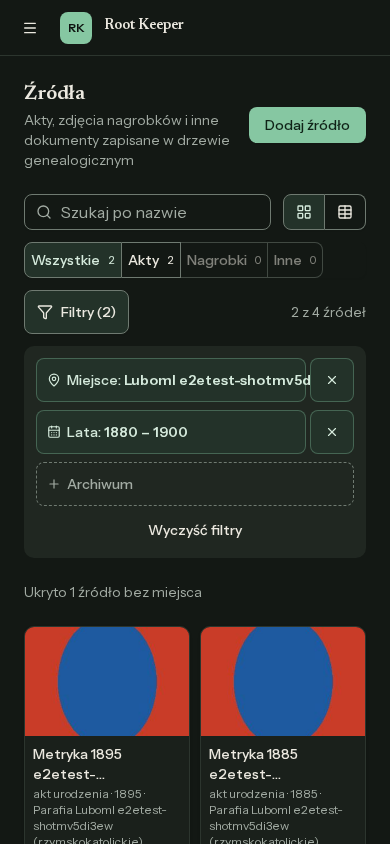
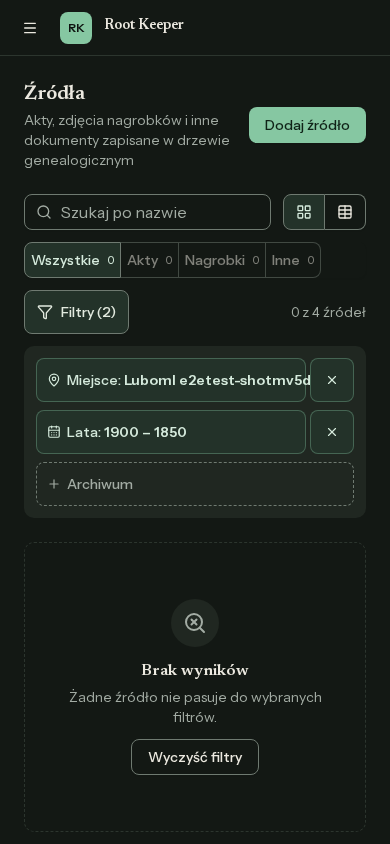
fix(sources-filter-bar): poprawki po przeglądzie implementacji (F1–F10)
- Home/End w polu wyszukiwania zostają w kursorze; fokus przy otwarciu na wyszukiwarce lub wybranej pozycji
- Popover Miejsce/Archiwum bez aria-haspopup (popup to dialog), bez zdublowanej etykiety
- Spinner w SearchField aria-hidden: jeden region role=status (licznik wyników)
- ✕ i „Wyczyść lata” zatwierdzają od razu przez visit
- Eksporty typów SourcesCounts/SourcesResult usunięte; E2E: escapowany regex
- Test: „1 z 2 źródeł”; zrzut ciemny błędu zakresu, zrzuty odświeżone
- reviews/impl-review.md: sekcja triage

diff --git a/resources/js/components/sources/sources-filters.tsx b/resources/js/components/sources/sources-filters.tsx
@@ -58,6 +58,14 @@ function moveOptionFocus(event: KeyboardEvent<HTMLDivElement>) {
         return;
     }
 
+    // Home and End belong to the caret while the search field has focus; arrows still enter the list.
+    const onOption =
+        (event.target as HTMLElement).getAttribute('role') === 'option';
+
+    if (!onOption && (event.key === 'Home' || event.key === 'End')) {
+        return;
+    }
+
     const options = Array.from(
         event.currentTarget.querySelectorAll<HTMLElement>(
             '[role="option"]:not([aria-disabled="true"])',
@@ -83,6 +91,19 @@ function moveOptionFocus(event: KeyboardEvent<HTMLDivElement>) {
 
     event.preventDefault();
     options[next].focus();
+}
+
+/** On open, a list focuses its search field, or else the selected option (plan: Critical Implementation Details). */
+function focusListOnOpen(event: Event) {
+    const content = event.currentTarget as HTMLElement;
+    const target =
+        content.querySelector<HTMLElement>('input[type="search"]') ??
+        content.querySelector<HTMLElement>('[aria-selected="true"]');
+
+    if (target) {
+        event.preventDefault();
+        target.focus();
+    }
 }
 
 /** The body of the Miejsce and Archiwum popovers: a search field when the list is long, then the options. */
@@ -218,7 +239,6 @@ function FilterPill({
     name,
     value,
     activeIcon: ActiveIcon,
-    ariaHasPopup,
     removeLabel,
     onClear,
     disabledReason,
@@ -227,7 +247,6 @@ function FilterPill({
     name: string;
     value: string | null;
     activeIcon: LucideIcon;
-    ariaHasPopup: 'listbox' | 'dialog';
     removeLabel: string;
     onClear: () => void;
     disabledReason?: string;
@@ -274,11 +293,7 @@ function FilterPill({
     return (
         <Popover open={isOpen} onOpenChange={setIsOpen}>
             <div className="inline-flex items-center gap-1 max-sm:w-full">
-                <PopoverTrigger
-                    ref={triggerRef}
-                    aria-haspopup={ariaHasPopup}
-                    className={triggerClass}
-                >
+                <PopoverTrigger ref={triggerRef} className={triggerClass}>
                     <Icon className="size-3.5 shrink-0" />
                     {isActive ? (
                         <span>
@@ -336,6 +351,7 @@ export function SourcesFilterBar({
     onArchiveChange,
     onYearFromChange,
     onYearToChange,
+    onYearsClear,
     onClear,
 }: {
     place: string;
@@ -356,6 +372,7 @@ export function SourcesFilterBar({
     onArchiveChange: (archive: string) => void;
     onYearFromChange: (year: string) => void;
     onYearToChange: (year: string) => void;
+    onYearsClear: () => void;
     onClear: () => void;
 }) {
     const [isMobileOpen, setIsMobileOpen] = useState(false);
@@ -429,7 +446,6 @@ export function SourcesFilterBar({
                         name="Miejsce"
                         value={place === '' ? null : placeLabel}
                         activeIcon={MapPin}
-                        ariaHasPopup="listbox"
                         removeLabel={`miejsce ${placeLabel}`}
                         onClear={() => onPlaceChange('')}
                         disabledReason={
@@ -440,9 +456,9 @@ export function SourcesFilterBar({
                     >
                         {(close) => (
                             <PopoverContent
-                                aria-label="Miejsce"
                                 align="start"
                                 className="w-80 rounded-lg p-2"
+                                onOpenAutoFocus={focusListOnOpen}
                             >
                                 <FilterList
                                     name="Miejsce"
@@ -462,12 +478,8 @@ export function SourcesFilterBar({
                         name="Lata"
                         value={hasYears ? yearsLabel : null}
                         activeIcon={CalendarDays}
-                        ariaHasPopup="dialog"
                         removeLabel={`lata ${yearsLabel}`}
-                        onClear={() => {
-                            onYearFromChange('');
-                            onYearToChange('');
-                        }}
+                        onClear={onYearsClear}
                     >
                         {() => (
                             <PopoverContent
@@ -565,10 +577,7 @@ export function SourcesFilterBar({
                                         <Button
                                             variant="ghost"
                                             size="sm"
-                                            onClick={() => {
-                                                onYearFromChange('');
-                                                onYearToChange('');
-                                            }}
+                                            onClick={onYearsClear}
                                         >
                                             Wyczyść lata
                                         </Button>
@@ -582,7 +591,6 @@ export function SourcesFilterBar({
                         name="Archiwum"
                         value={archive === '' ? null : archive}
                         activeIcon={Landmark}
-                        ariaHasPopup="listbox"
                         removeLabel={`archiwum ${archive}`}
                         onClear={() => onArchiveChange('')}
                         disabledReason={
@@ -593,9 +601,9 @@ export function SourcesFilterBar({
                     >
                         {(close) => (
                             <PopoverContent
-                                aria-label="Archiwum"
                                 align="start"
                                 className="w-80 rounded-lg p-2"
+                                onOpenAutoFocus={focusListOnOpen}
                             >
                                 <FilterList
                                     name="Archiwum"

diff --git a/resources/js/pages/sources/index.tsx b/resources/js/pages/sources/index.tsx
@@ -352,7 +352,8 @@ export default function Index({
     // The result count follows the committed query, so it is announced once per pause, not per keystroke.
     const committedCount = filterSources(sources, filters).visible.length;
 
-    // The counts next to the popover options follow the search typed so far, as the list does.
+    // The counts next to the popover options follow the search and years typed so far, as the list does.
+    // They can briefly differ from the committed status line until the debounce commits; that is intended.
     const searchFilters = { ...filters, q: trimmedSearch };
     const placeValues = [
         '',
@@ -519,6 +520,11 @@ export default function Index({
                             onArchiveChange={(archive) => visit({ archive })}
                             onYearFromChange={setYearFrom}
                             onYearToChange={setYearTo}
+                            onYearsClear={() => {
+                                setYearFrom('');
+                                setYearTo('');
+                                visit({ year_from: null, year_to: null });
+                            }}
                             onClear={clearFilters}
                         />
                     </div>

diff --git a/tests/e2e/sources-grid-with-filters.spec.ts b/tests/e2e/sources-grid-with-filters.spec.ts
@@ -11,6 +11,11 @@ import { createLocality, createParish, createSource } from './support/api';
 
 const FIXTURE = 'tests/Fixtures/portrait-small.jpg';
 
+/** Escapes a name for use inside a RegExp, so a name with metacharacters matches literally. */
+function escapeRegExp(text: string): string {
+    return text.replace(/[.*+?^${}()|[\]\\]/g, '\\$&');
+}
+
 test('sources-grid-with-filters: place and year range narrow the grid, survive a reload and clear together', async ({
     page,
     suffix,
@@ -61,7 +66,9 @@ test('sources-grid-with-filters: place and year range narrow the grid, survive a
     // 3. Place pill → the locality option: the address takes it, the grid keeps only the parish's acts.
     await page.getByRole('button', { name: 'Miejsce', exact: true }).click();
     await page
-        .getByRole('option', { name: new RegExp('^' + localityName) })
+        .getByRole('option', {
+            name: new RegExp('^' + escapeRegExp(localityName)),
+        })
         .click();
     await expect(page).toHaveURL(/[?&]place=miejscowosc-\d+/);
     await expect(

diff --git a/resources/js/lib/sources-index.ts b/resources/js/lib/sources-index.ts
@@ -31,11 +31,11 @@ export type SourcesPlaceOptions = {
     parishes: { id: number; label: string }[];
 };
 
-export type SourcesCounts = Record<SourcesKindFilter, number>;
+type SourcesCounts = Record<SourcesKindFilter, number>;
 
 export type SourcesMissingCriterion = 'year' | 'place' | 'archive';
 
-export type SourcesResult = {
+type SourcesResult = {
     visible: IndexSource[];
     counts: SourcesCounts;
     hidden: { count: number; missing: SourcesMissingCriterion[] };

diff --git a/resources/js/lib/sources-index.test.ts b/resources/js/lib/sources-index.test.ts
@@ -439,6 +439,7 @@ describe('resultCountText', () => {
         expect(resultCountText(12, 64, true)).toBe('12 z 64 źródeł');
         expect(resultCountText(1, 1, true)).toBe('1 z 1 źródła');
         expect(resultCountText(0, 64, true)).toBe('0 z 64 źródeł');
+        expect(resultCountText(1, 2, true)).toBe('1 z 2 źródeł');
     });
 });
 

diff --git a/resources/js/components/search-field.tsx b/resources/js/components/search-field.tsx
@@ -29,6 +29,7 @@ export function SearchField({
         <div className={cn('relative flex-1', className)}>
             {busy ? (
                 <Spinner
+                    aria-hidden="true"
                     aria-label={busyLabel}
                     className="text-muted-foreground absolute top-1/2 left-3 -translate-y-1/2"
                 />

diff --git a/context/changes/sources-filter-bar/reviews/impl-review.md b/context/changes/sources-filter-bar/reviews/impl-review.md
@@ -125,3 +125,20 @@ Note: the reviewers were read-only and did not re-run gates. Gates were run per 
 ## Findings
 
 Sortowane wg wagi: WARNING (F1–F5), potem OBSERVATION (F6–F10).
+
+## Triage
+
+| ID | Decision | Outcome |
+|----|----------|---------|
+| F1 | FIXED | Home/End obsługiwane tylko na opcjach; w polu „Szukaj” zostają w kursorze (`sources-filters.tsx`, `moveOptionFocus`). |
+| F2 | FIXED | Usunięty `aria-haspopup` (popup to dialog); etykieta „Miejsce”/„Archiwum” zostaje na listbox, dialog bez zdublowanej nazwy. Lata zachowuje `aria-label="Lata"` (testy). |
+| F3 | FIXED (wariant A) | Spinner w `SearchField` ma `aria-hidden="true"`; jedyny region `role="status"` to licznik wyników. Wspólny komponent — sprawdzone pełnym Playwright (36/36). |
+| F4 | FIXED | ✕ Lata i „Wyczyść lata” wołają `onYearsClear` → `visit({ year_from: null, year_to: null })` od razu, tak jak miejsce i archiwum. |
+| F5 | FIXED | `focusListOnOpen` na popoverach Miejsce i Archiwum: fokus na polu wyszukiwania, a gdy go nie ma — na wybranej pozycji. |
+| F6 | DOCUMENTED | Komentarz w `pages/sources/index.tsx` mówi, że liczby mogą chwilowo różnić się od statusu do końca debounce — zamierzone. |
+| F7 | FIXED | Dodany zrzut `desktop-dark-years-error.png`. Zrzuty odświeżone po poprawkach. Pozycja 2.11 nadal otwarta: brak porównania z makietą. |
+| F8 | CONFIRMED | `sm:ml-auto` zamierzone dla układu mobilnego; plan nie zmieniany. |
+| F9 | FIXED (odstępstwo) | `export` usunięty z `SourcesCounts` i `SourcesResult`. Regex w E2E zostaje zakotwiczony, ale nazwa jest escapowana (`escapeRegExp`). Zamiast `{ name: localityName }`: etykieta parafii zawiera nazwę miejscowości, więc zwykły substring dałby dwa dopasowania. |
+| F10 | FIXED | Dodana asercja `resultCountText(1, 2, true)` → „1 z 2 źródeł”. |
+
+Gates po poprawkach: test:js 329/329, types:check, check, build — przechodzą. Playwright pełny: 36/36.
